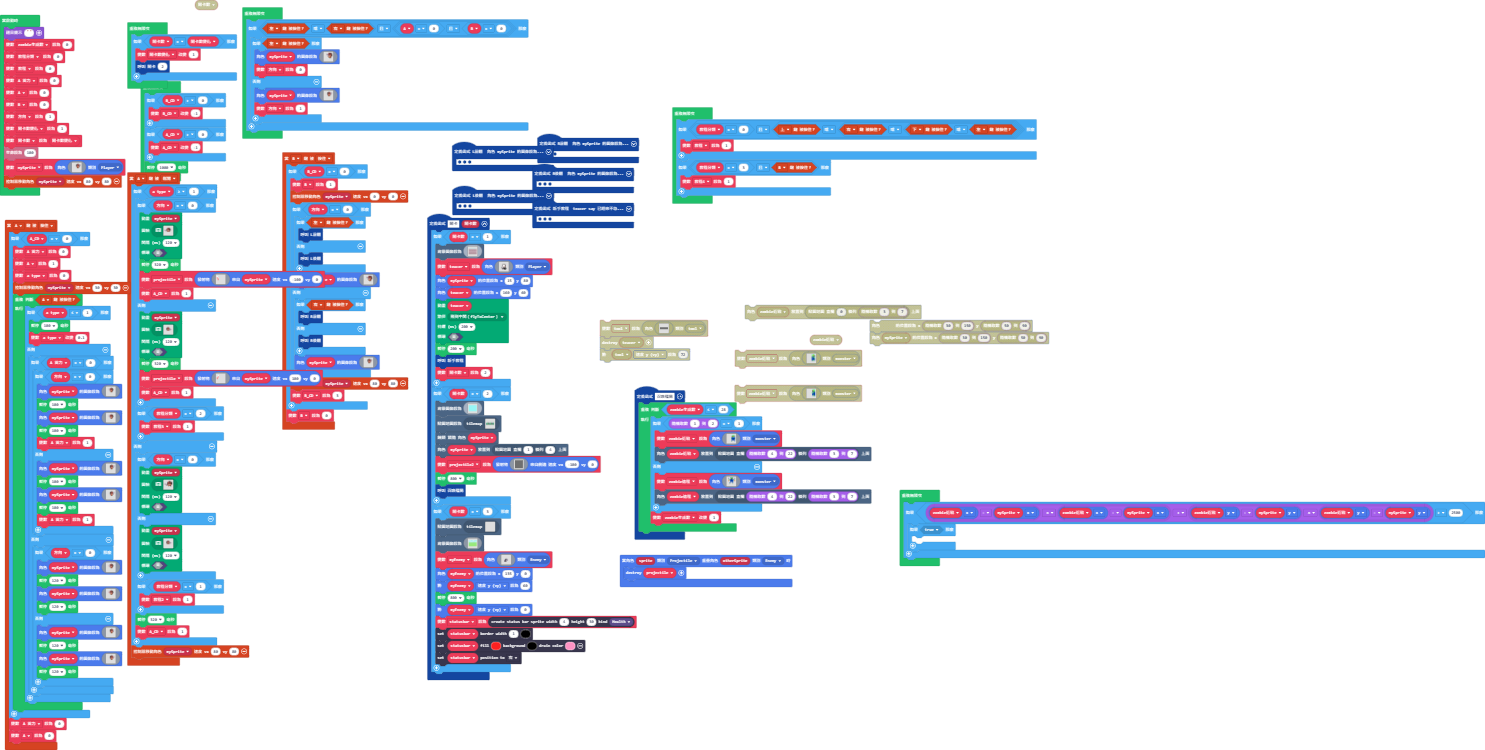
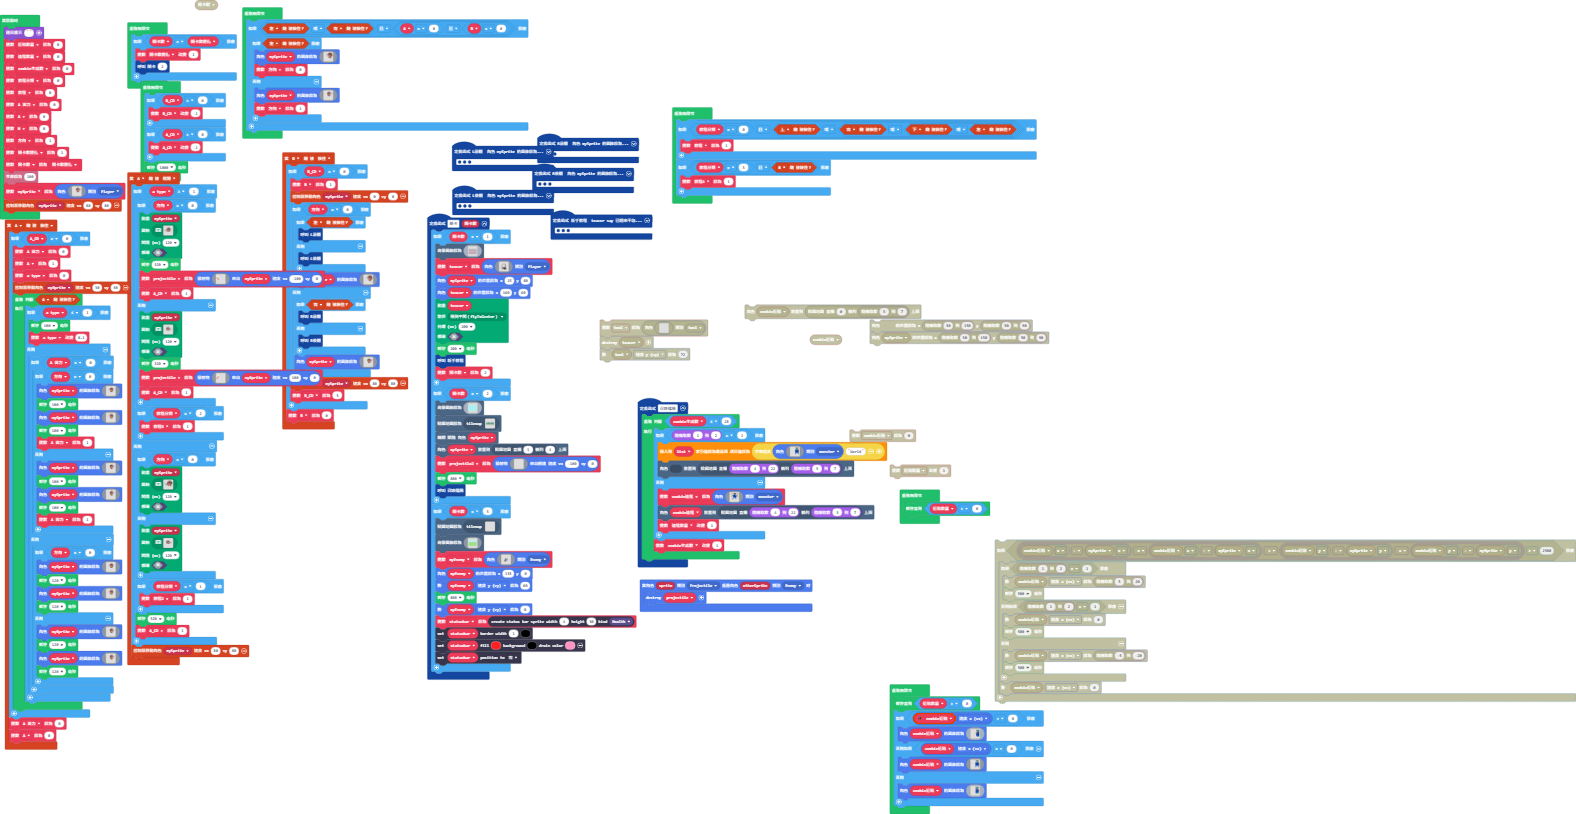
更新 main.blocks, main.ts

diff --git a/main.ts b/main.ts
@@ -2839,45 +2839,47 @@ function L前翻 () {
 function 召喚殭屍 () {
     while (zombie生成數 <= 28) {
         if (randint(1, 2) == 1) {
-            zombie近戰 = sprites.create(img`
-                . . . . . . . . . 9 9 9 9 9 9 . 
-                . . . . . . . . . 9 7 7 7 7 7 . 
-                . . . . . . . . . 7 7 7 7 7 9 . 
-                . . . . . . . . . 2 f 7 7 2 f . 
-                . . . . . . . . . 9 7 7 9 9 9 . 
+            let list: string[] = []
+            list.unshift("" + sprites.create(img`
+                . . . . . . . . . 6 2 6 6 2 2 . 
+                . . . . . . . . . 6 6 6 6 6 2 . 
+                . . . . . . . . . 6 6 6 6 6 6 . 
+                . . . . . . . . . 1 1 6 6 1 1 . 
+                . . . . . . . . . 6 6 6 6 2 2 . 
+                . . . . . . . . 8 8 2 8 8 8 2 2 
                 . . . . . . . . 8 8 8 8 8 8 8 8 
-                . . . . . . . . 8 8 8 8 8 8 8 8 
-                . . . . . . . . 7 8 8 8 8 8 8 7 
-                . . . . . . . . 7 8 8 8 8 8 8 7 
+                . . . . . . . . 2 8 8 8 8 8 8 6 
+                . . . . . . . . 6 8 8 8 8 8 8 6 
                 . . . . . . . . . 8 8 8 8 8 8 . 
                 . . . . . . . . . 8 8 8 8 8 8 . 
                 . . . . . . . . . 8 . . . . 8 . 
                 . . . . . . . . . 8 . . . . 8 . 
-                . . . . . . . . . 7 . . . . 9 . 
+                . . . . . . . . . 6 . . . . 6 . 
                 . . . . . . . . . . . . . . . . 
                 . . . . . . . . . . . . . . . . 
-                `, SpriteKind.monster)
-            tiles.placeOnTile(zombie近戰, tiles.getTileLocation(randint(4, 22), randint(3, 7)))
+                `, SpriteKind.monster) + "World")
+            tiles.placeOnTile(null, tiles.getTileLocation(randint(4, 22), randint(3, 7)))
         } else {
             zombie遠程 = sprites.create(img`
-                . . . . . . 6 6 6 6 6 6 . . . . 
-                . . . a . . 7 6 7 7 7 7 . . a . 
-                . . 6 . . . 2 1 7 7 2 1 . . . 6 
-                . . 8 . . . 6 7 f f 6 6 . . . 8 
-                . . 7 . . 8 8 8 8 8 1 8 8 . . 7 
+                . . . . . . 2 2 6 6 6 6 . . . . 
+                . . . a . . 2 6 6 2 2 6 . . a . 
+                . . 6 . . . 1 1 6 6 1 1 . . . 6 
+                . . 8 . . . 6 6 f f 6 2 . . . 8 
+                . . 7 . . 8 8 8 8 8 1 2 2 . . 7 
                 . . 5 . . 8 8 8 8 8 8 8 8 . . 5 
-                . . 4 . . 7 8 8 8 8 8 8 7 . . 4 
+                . . 4 . . 6 8 8 8 8 8 8 6 . . 4 
                 . . . 2 . . 8 8 8 8 8 8 . . 2 . 
                 . . . . . . 8 8 8 8 8 8 . . . . 
                 . . . . . . 8 . . . . 8 . . . . 
                 . . . . . 8 8 . . . . 8 . . . . 
                 . . . . . 8 . . . . . 8 . . . . 
-                . . . . . 7 . . . . . 7 . . . . 
+                . . . . . 6 . . . . . 6 . . . . 
                 . . . . . . . . . . . . . . . . 
                 . . . . . . . . . . . . . . . . 
                 . . . . . . . . . . . . . . . . 
                 `, SpriteKind.monster)
             tiles.placeOnTile(zombie遠程, tiles.getTileLocation(randint(4, 22), randint(3, 7)))
+            遠程數量 += 1
         }
         zombie生成數 += 1
     }
@@ -3215,7 +3217,6 @@ sprites.onOverlap(SpriteKind.Projectile, SpriteKind.Enemy, function (sprite, oth
 })
 let 教程4 = 0
 let zombie遠程: Sprite = null
-let zombie近戰: Sprite = null
 let statusbar: StatusBarSprite = null
 let myEnemy: Sprite = null
 let projectile2: Sprite = null
@@ -3236,6 +3237,8 @@ let 教程 = 0
 let 教程分類 = 0
 let zombie生成數 = 0
 game.splash("")
+let 近戰數量 = 0
+let 遠程數量 = 0
 zombie生成數 = 0
 教程分類 = 0
 教程 = 0
@@ -3358,9 +3361,67 @@ forever(function () {
     }
 })
 forever(function () {
-    if ((zombie近戰.x - mySprite.x) * (zombie近戰.x - mySprite.x) + (zombie近戰.y - mySprite.y) * (zombie近戰.y - mySprite.y) > 2500) {
-        if (true) {
-        	
-        }
+    pauseUntil(() => 近戰數量 > 0)
+})
+forever(function () {
+    let zombie近戰: Sprite = null
+    pauseUntil(() => 近戰數量 > 0)
+    if (zombie近戰.vx < 0) {
+        zombie近戰.setImage(img`
+            . . . . . . . . . . 2 2 6 6 6 6 
+            . . . . . . . . . . 6 6 6 6 6 6 
+            . . . . . . . . . . 1 1 6 6 6 2 
+            . . . . . . . . . . 6 6 6 6 6 2 
+            . . . . . . . . . . 6 6 6 6 6 6 
+            . . . . . . . . . . 2 2 2 8 8 8 
+            . . . . . . . . . 2 2 8 8 8 8 8 
+            . . . . . . . . . 6 6 6 2 2 8 8 
+            . . . . . . . . . . 8 8 8 8 8 8 
+            . . . . . . . . . . 8 8 8 8 8 8 
+            . . . . . . . . . . 8 8 6 8 8 8 
+            . . . . . . . . . . 8 8 6 8 8 8 
+            . . . . . . . . . . 8 . 6 6 8 8 
+            . . . . . . . . . . . . 6 6 . . 
+            . . . . . . . . . . . . . . . . 
+            . . . . . . . . . . . . . . . . 
+            `)
+    } else if (zombie近戰.vx == 0) {
+        zombie近戰.setImage(img`
+            . . . . . . . . . 6 2 6 6 2 2 . 
+            . . . . . . . . . 6 6 6 6 6 2 . 
+            . . . . . . . . . 6 6 6 6 6 6 . 
+            . . . . . . . . . 1 1 6 6 1 1 . 
+            . . . . . . . . . 6 6 6 6 2 2 . 
+            . . . . . . . . 8 8 2 8 8 8 2 2 
+            . . . . . . . . 8 8 8 8 8 8 8 8 
+            . . . . . . . . 2 8 8 8 8 8 8 6 
+            . . . . . . . . 6 8 8 8 8 8 8 6 
+            . . . . . . . . . 8 8 8 8 8 8 . 
+            . . . . . . . . . 8 8 8 8 8 8 . 
+            . . . . . . . . . 8 . . . . 8 . 
+            . . . . . . . . . 8 . . . . 8 . 
+            . . . . . . . . . 6 . . . . 6 . 
+            . . . . . . . . . . . . . . . . 
+            . . . . . . . . . . . . . . . . 
+            `)
+    } else {
+        zombie近戰.setImage(img`
+            . . . . . . . . . 6 6 6 6 2 2 . 
+            . . . . . . . . . 6 6 6 6 6 6 . 
+            . . . . . . . . . 2 6 6 6 1 1 . 
+            . . . . . . . . . 2 6 6 6 6 6 . 
+            . . . . . . . . . 6 6 6 6 6 6 . 
+            . . . . . . . . . 8 8 8 2 2 2 . 
+            . . . . . . . . . 8 8 8 8 8 2 2 
+            . . . . . . . . . 8 8 2 2 6 6 6 
+            . . . . . . . . . 8 8 8 8 8 8 . 
+            . . . . . . . . . 8 8 8 8 8 8 . 
+            . . . . . . . . . 8 8 8 6 8 8 . 
+            . . . . . . . . . 8 8 8 6 8 8 . 
+            . . . . . . . . . 8 8 6 6 . 8 . 
+            . . . . . . . . . . . 6 6 . . . 
+            . . . . . . . . . . . . . . . . 
+            . . . . . . . . . . . . . . . . 
+            `)
     }
 })
